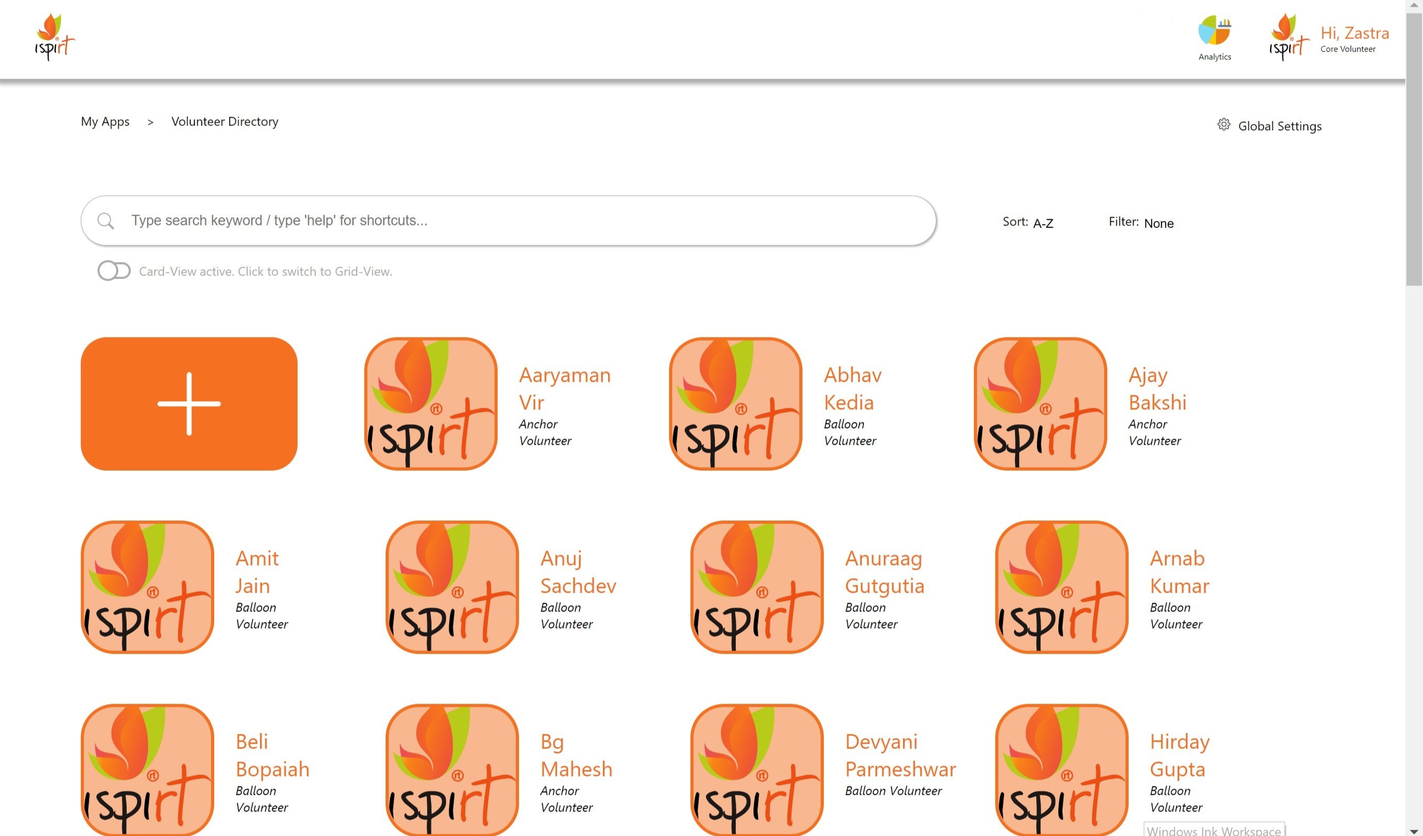
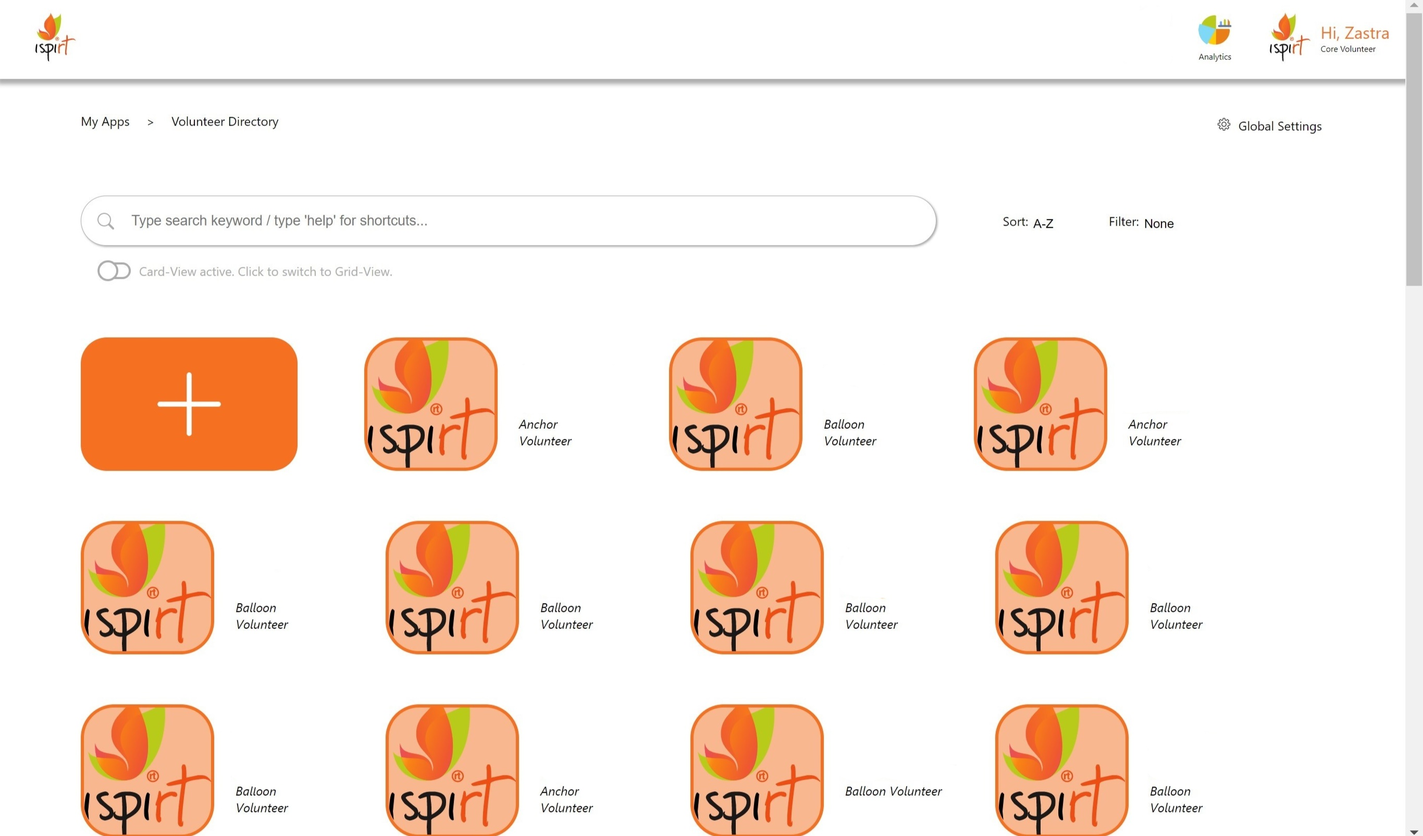
ispirt

diff --git a/pages/work/ispirt.js b/pages/work/ispirt.js
@@ -205,6 +205,8 @@ export default function Story() {
     const [volOpsIndex, setVolOpsIndex] = useState(0);
     const [vfcIndex, setVfcIndex] = useState(0);
 
+    const [nextImgExists, setNextImgExists] = useState(true);
+
     const handleChange = (event, newValue) => {
         setValue(newValue);
     };    
@@ -389,23 +391,23 @@ export default function Story() {
                     setGeneralIndex(0)
                 }
             }
-            if (nextjsVal === 1) {
+            else if (nextjsVal === 1) {
                 if (volOpsIndex === 0) {
-                    setVolOpsSrc("/assets/projects/ispirt/ispirt-zastra/volunteer_operations/vol-ops_onboarding_directory_2.jpg")
+                    setVolOpsSrc("/assets/projects/ispirt/ispirt-zastra/volunteer_operations/vol-ops_directory_2.jpg")
                     setVolOpsIndex(1)
                 }
                 else if (volOpsIndex === 1) {
-                    setVolOpsSrc("/assets/projects/ispirt/ispirt-zastra/volunteer_operations/vol-ops_onboarding_directory.jpg")
+                    setVolOpsSrc("/assets/projects/ispirt/ispirt-zastra/volunteer_operations/vol-ops_directory.jpg")
                     setVolOpsIndex(0)
                 }
             }
-            if (nextjsVal === 2) {
+            else if (nextjsVal === 2) {
                 if (vfcIndex === 0) {
-                    setVfcSrc("/assets/projects/ispirt/ispirt-zastra/vfc/vfc_onboarding_directory_2.jpg")
+                    setVfcSrc("/assets/projects/ispirt/ispirt-zastra/vfc/vfc_directory_2.jpg")
                     setVfcIndex(1)
                 }
                 else if (vfcIndex === 1) {
-                    setVfcSrc("/assets/projects/ispirt/ispirt-zastra/vfc/vfc_onboarding_directory.jpg")
+                    setVfcSrc("/assets/projects/ispirt/ispirt-zastra/vfc/vfc_directory.jpg")
                     setVfcIndex(0)
                 }
             }
@@ -570,23 +572,50 @@ export default function Story() {
             if (nextjsVal === 0) {
             }
             if (nextjsVal === 1) {
-                setVolOpsSrc("/assets/projects/ispirt/ispirt-zastra/volunteer_operations/vol-ops_settings_2.jpg")
+                if (volOpsIndex === 0) {
+                    setVolOpsSrc("/assets/projects/ispirt/ispirt-zastra/volunteer_operations/vol-ops_settings_2.jpg")
+                    setVolOpsIndex(1)
+                }
+                else if (volOpsIndex === 1) {
+                    setVolOpsSrc("/assets/projects/ispirt/ispirt-zastra/volunteer_operations/vol-ops_settings.jpg")
+                    setVolOpsIndex(0)
+                }
             }
             if (nextjsVal === 2) {
-                setVfcSrc("/assets/projects/ispirt/ispirt-zastra/vfc/vfc_settings_2.jpg")
+                if (vfcIndex === 0) {
+                    setVfcSrc("/assets/projects/ispirt/ispirt-zastra/vfc/vfc_settings_2.jpg")
+                    setVfcIndex(1)
+                }
+                else if (vfcIndex === 1) {
+                    setVfcSrc("/assets/projects/ispirt/ispirt-zastra/vfc/vfc_settings.jpg")
+                    setVfcIndex(0)
+                }
             }
         }
         else if (typeSrc === "> admin > new_volunteer_profile") {
             if (nextjsVal === 0) {
             }
             if (nextjsVal === 1) {
-                setVolOpsSrc("/assets/projects/ispirt/ispirt-zastra/volunteer_operations/vol-ops_new_volunteer_2.jpg")
+                if (volOpsIndex === 0) {
+                    setVolOpsSrc("/assets/projects/ispirt/ispirt-zastra/volunteer_operations/vol-ops_new_volunteer_2.jpg")
+                    setVolOpsIndex(1)
+                }
+                else if (volOpsIndex === 1) {
+                    setVolOpsSrc("/assets/projects/ispirt/ispirt-zastra/volunteer_operations/vol-ops_new_volunteer.jpg")
+                    setVolOpsIndex(0)
+                }
             }
             if (nextjsVal === 2) {
-                setVfcSrc("/assets/projects/ispirt/ispirt-zastra/vfc/vfc_new_volunteer_2.jpg")
+                if (vfcIndex === 0) {
+                    setVfcSrc("/assets/projects/ispirt/ispirt-zastra/vfc/vfc_new_volunteer_2.jpg")
+                    setVfcIndex(1)
+                }
+                else if (vfcIndex === 1) {
+                    setVfcSrc("/assets/projects/ispirt/ispirt-zastra/vfc/vfc_new_volunteer.jpg")
+                    setVfcIndex(0)
+                }
             }
         }
-        
     }
 
     return(
@@ -597,7 +626,6 @@ export default function Story() {
             </Grid>
 
             <Divider className={classes.divider}/>
-
 
             <Grid container justify="space-between" className={classes.container}>
                 <Grid item xs={5} container justify="flex-end">
@@ -883,59 +911,59 @@ export default function Story() {
                                 <Typography variant="body2" className={classes.text}>
                                    <b>Pages (click to see a screenshot of the page)</b><br/><br/>
                                 </Typography>
-                                <Typography variant="body2" className={classes.nextjs_nav} onClick={()=>{setGeneralSrc("/assets/projects/ispirt/ispirt-zastra/general/general_login.jpg"); setVolOpsSrc("/assets/projects/ispirt/ispirt-zastra/volunteer_operations/vol-ops_login.jpg"); setVfcSrc("/assets/projects/ispirt/ispirt-zastra/vfc/vfc_login.jpg"); setTypeSrc("> login"); setGeneralIndex(0); setVolOpsIndex(0); setVfcIndex(0); setTypeDesc("This is the landing screen for Zastra, the volunteer management tool. The OAuth 2.0 protocol has been used for authorization. Azure's Active Directory is the identity and access management service used with OAuth.")}}>
+                                <Typography variant="body2" className={classes.nextjs_nav} onClick={()=>{setGeneralSrc("/assets/projects/ispirt/ispirt-zastra/general/general_login.jpg"); setVolOpsSrc("/assets/projects/ispirt/ispirt-zastra/volunteer_operations/vol-ops_login.jpg"); setVfcSrc("/assets/projects/ispirt/ispirt-zastra/vfc/vfc_login.jpg"); setTypeSrc("> login"); setGeneralIndex(0); setVolOpsIndex(0); setVfcIndex(0); setTypeDesc("This is the landing screen for Zastra, the volunteer management tool. The OAuth 2.0 protocol has been used for authorization. Azure's Active Directory is the identity and access management service used with OAuth."); setNextImgExists(true)}}>
                                     > login
                                 </Typography>
                                 <br/>
-                                <Typography variant="body2" className={classes.nextjs_nav} onClick={()=>{setGeneralSrc("/assets/projects/ispirt/ispirt-zastra/general/general_onboarding.jpg"); setVolOpsSrc("/assets/projects/ispirt/ispirt-zastra/volunteer_operations/vol-ops_onboarding.jpg"); setVfcSrc("/assets/projects/ispirt/ispirt-zastra/vfc/vfc_onboarding.jpg"); setTypeSrc("> onboarding"); setGeneralIndex(0); setVolOpsIndex(0); setVfcIndex(0); setTypeDesc("This is the first onboarding screen. When a volunteer enters Zastra for the first time, this screen is displayed. This screen is also triggered when a returning volunteer clicks the 'help' button on the home screen.")}}>
+                                <Typography variant="body2" className={classes.nextjs_nav} onClick={()=>{setGeneralSrc("/assets/projects/ispirt/ispirt-zastra/general/general_onboarding.jpg"); setVolOpsSrc("/assets/projects/ispirt/ispirt-zastra/volunteer_operations/vol-ops_onboarding.jpg"); setVfcSrc("/assets/projects/ispirt/ispirt-zastra/vfc/vfc_onboarding.jpg"); setTypeSrc("> onboarding"); setGeneralIndex(0); setVolOpsIndex(0); setVfcIndex(0); setTypeDesc("This is the first onboarding screen. When a volunteer enters Zastra for the first time, this screen is displayed. This screen is also triggered when a returning volunteer clicks the 'help' button on the home screen."); setNextImgExists(false)}}>
                                     > onboarding
                                 </Typography>
-                                <Typography variant="body2" className={classes.nextjs_nav} onClick={()=>{setGeneralSrc("/assets/projects/ispirt/ispirt-zastra/general/general_onboarding_home.jpg"); setVolOpsSrc("/assets/projects/ispirt/ispirt-zastra/volunteer_operations/vol-ops_onboarding_home.jpg"); setVfcSrc("/assets/projects/ispirt/ispirt-zastra/vfc/vfc_onboarding_home.jpg"); setTypeSrc("> onboarding > home"); setGeneralIndex(0); setVolOpsIndex(0); setVfcIndex(0); setTypeDesc("This is the first onboarding screen. When a volunteer enters Zastra for the first time, this screen is displayed. This screen is also triggered when a returning volunteer clicks the 'help' button on the home screen.")}}>
+                                <Typography variant="body2" className={classes.nextjs_nav} onClick={()=>{setGeneralSrc("/assets/projects/ispirt/ispirt-zastra/general/general_onboarding_home.jpg"); setVolOpsSrc("/assets/projects/ispirt/ispirt-zastra/volunteer_operations/vol-ops_onboarding_home.jpg"); setVfcSrc("/assets/projects/ispirt/ispirt-zastra/vfc/vfc_onboarding_home.jpg"); setTypeSrc("> onboarding > home"); setGeneralIndex(0); setVolOpsIndex(0); setVfcIndex(0); setTypeDesc("This is the first onboarding screen. When a volunteer enters Zastra for the first time, this screen is displayed. This screen is also triggered when a returning volunteer clicks the 'help' button on the home screen."); setNextImgExists(false)}}>
                                     > onboarding > home
                                 </Typography>
-                                <Typography variant="body2" className={classes.nextjs_nav} onClick={()=>{setGeneralSrc("/assets/projects/ispirt/ispirt-zastra/general/general_onboarding_directory.jpg"); setVolOpsSrc("/assets/projects/ispirt/ispirt-zastra/volunteer_operations/vol-ops_onboarding_directory.jpg"); setVfcSrc("/assets/projects/ispirt/ispirt-zastra/vfc/vfc_onboarding_directory.jpg"); setTypeSrc("> onboarding > volunteer_directory"); setGeneralIndex(0); setVolOpsIndex(0); setVfcIndex(0); setTypeDesc("This is the second part of the onboarding deck. It tours volunteers around the volunteer directory (an internal yellow-book, if you' like).")}}>
+                                <Typography variant="body2" className={classes.nextjs_nav} onClick={()=>{setGeneralSrc("/assets/projects/ispirt/ispirt-zastra/general/general_onboarding_directory.jpg"); setVolOpsSrc("/assets/projects/ispirt/ispirt-zastra/volunteer_operations/vol-ops_onboarding_directory.jpg"); setVfcSrc("/assets/projects/ispirt/ispirt-zastra/vfc/vfc_onboarding_directory.jpg"); setTypeSrc("> onboarding > volunteer_directory"); setGeneralIndex(0); setVolOpsIndex(0); setVfcIndex(0); setTypeDesc("This is the second part of the onboarding deck. It tours volunteers around the volunteer directory (an internal yellow-book, if you' like)."); setNextImgExists(true)}}>
                                     > onboarding > volunteer_directory
                                 </Typography>
-                                <Typography variant="body2" className={classes.nextjs_nav} onClick={()=>{setGeneralSrc("/assets/projects/ispirt/ispirt-zastra/general/general_onboarding_profile.jpg"); setVolOpsSrc("/assets/projects/ispirt/ispirt-zastra/volunteer_operations/vol-ops_onboarding_profile.jpg"); setVfcSrc("/assets/projects/ispirt/ispirt-zastra/vfc/vfc_onboarding_profile.jpg"); setTypeSrc("> onboarding > volunteer_profile"); setGeneralIndex(0); setVolOpsIndex(0); setVfcIndex(0); setTypeDesc("This is the third part of the onboarding deck. It tours volunteers around an example volunteer's profile.")}}>
+                                <Typography variant="body2" className={classes.nextjs_nav} onClick={()=>{setGeneralSrc("/assets/projects/ispirt/ispirt-zastra/general/general_onboarding_profile.jpg"); setVolOpsSrc("/assets/projects/ispirt/ispirt-zastra/volunteer_operations/vol-ops_onboarding_profile.jpg"); setVfcSrc("/assets/projects/ispirt/ispirt-zastra/vfc/vfc_onboarding_profile.jpg"); setTypeSrc("> onboarding > volunteer_profile"); setGeneralIndex(0); setVolOpsIndex(0); setVfcIndex(0); setTypeDesc("This is the third part of the onboarding deck. It tours volunteers around an example volunteer's profile."); setNextImgExists(true)}}>
                                     > onboarding > volunteer_profile
                                 </Typography>
-                                <Typography variant="body2" className={classes.nextjs_nav} onClick={()=>{setGeneralSrc("/assets/projects/ispirt/ispirt-zastra/general/general_onboarding_personal.jpg"); setVolOpsSrc("/assets/projects/ispirt/ispirt-zastra/volunteer_operations/vol-ops_onboarding_personal.jpg"); setVfcSrc("/assets/projects/ispirt/ispirt-zastra/vfc/vfc_onboarding_personal.jpg"); setTypeSrc("> onboarding > personal_profile"); setGeneralIndex(0); setVolOpsIndex(0); setVfcIndex(0); setTypeDesc("This is the final part of the onboarding deck. It tours volunteers around their personal profile, guiding them to create their wiki. It then navigates to the volunteer's personal profile.")}}>
+                                <Typography variant="body2" className={classes.nextjs_nav} onClick={()=>{setGeneralSrc("/assets/projects/ispirt/ispirt-zastra/general/general_onboarding_personal.jpg"); setVolOpsSrc("/assets/projects/ispirt/ispirt-zastra/volunteer_operations/vol-ops_onboarding_personal.jpg"); setVfcSrc("/assets/projects/ispirt/ispirt-zastra/vfc/vfc_onboarding_personal.jpg"); setTypeSrc("> onboarding > personal_profile"); setGeneralIndex(0); setVolOpsIndex(0); setVfcIndex(0); setTypeDesc("This is the final part of the onboarding deck. It tours volunteers around their personal profile, guiding them to create their wiki. It then navigates to the volunteer's personal profile."); setNextImgExists(false)}}>
                                     > onboarding > personal_profile
                                 </Typography>
                                 <br/>
-                                <Typography variant="body2" className={classes.nextjs_nav} onClick={()=>{setGeneralSrc("/assets/projects/ispirt/ispirt-zastra/general/general_home.jpg"); setVolOpsSrc("/assets/projects/ispirt/ispirt-zastra/volunteer_operations/vol-ops_home.jpg"); setVfcSrc("/assets/projects/ispirt/ispirt-zastra/vfc/vfc_home.jpg"); setTypeSrc("> home"); setGeneralIndex(0); setVolOpsIndex(0); setVfcIndex(0); setTypeDesc("This is the home screen. It functions as a dashboard for all iSPIRT apps and resources, including Google Suite and the iSPIRT blog.")}}>
+                                <Typography variant="body2" className={classes.nextjs_nav} onClick={()=>{setGeneralSrc("/assets/projects/ispirt/ispirt-zastra/general/general_home.jpg"); setVolOpsSrc("/assets/projects/ispirt/ispirt-zastra/volunteer_operations/vol-ops_home.jpg"); setVfcSrc("/assets/projects/ispirt/ispirt-zastra/vfc/vfc_home.jpg"); setTypeSrc("> home"); setGeneralIndex(0); setVolOpsIndex(0); setVfcIndex(0); setTypeDesc("This is the home screen. It functions as a dashboard for all iSPIRT apps and resources, including Google Suite and the iSPIRT blog."); setNextImgExists(false)}}>
                                     > home
                                 </Typography>
-                                <Typography variant="body2" className={classes.nextjs_nav} onClick={()=>{setGeneralSrc("/assets/projects/ispirt/ispirt-zastra/general/general_directory.jpg"); setVolOpsSrc("/assets/projects/ispirt/ispirt-zastra/volunteer_operations/vol-ops_directory.jpg"); setVfcSrc("/assets/projects/ispirt/ispirt-zastra/vfc/vfc_directory.jpg"); setTypeSrc("> volunteer_directory"); setGeneralIndex(0); setVolOpsIndex(0); setVfcIndex(0); setTypeDesc("This is the volunteer directory. The default view is the icon view, but a toggle allows navigation between the icon and list views. A sort, filter, and search-bar make it easier to search, filter, and organize volunteers. The search functionality has been enhanced to not just search for volunteers via name, but locations, areas of expertise, mentors, etc. Admins can initialise and invite new volunteers to Zastra from this screen.")}}>
+                                <Typography variant="body2" className={classes.nextjs_nav} onClick={()=>{setGeneralSrc("/assets/projects/ispirt/ispirt-zastra/general/general_directory.jpg"); setVolOpsSrc("/assets/projects/ispirt/ispirt-zastra/volunteer_operations/vol-ops_directory.jpg"); setVfcSrc("/assets/projects/ispirt/ispirt-zastra/vfc/vfc_directory.jpg"); setTypeSrc("> volunteer_directory"); setGeneralIndex(0); setVolOpsIndex(0); setVfcIndex(0); setTypeDesc("This is the volunteer directory. The default view is the icon view, but a toggle allows navigation between the icon and list views. A sort, filter, and search-bar make it easier to search, filter, and organize volunteers. The search functionality has been enhanced to not just search for volunteers via name, but locations, areas of expertise, mentors, etc. Admins can initialise and invite new volunteers to Zastra from this screen. All volunteers' names have been erased for purposes of confidentiality."); setNextImgExists(true)}}>
                                     > volunteer_directory
                                 </Typography>
-                                <Typography variant="body2" className={classes.nextjs_nav} onClick={()=>{setGeneralSrc("/assets/projects/ispirt/ispirt-zastra/general/general_profile.jpg"); setVolOpsSrc("/assets/projects/ispirt/ispirt-zastra/volunteer_operations/vol-ops_volunteer_profile.jpg"); setVfcSrc("/assets/projects/ispirt/ispirt-zastra/vfc/vfc_volunteer_profile.jpg"); setTypeSrc("> volunteer_profile"); setGeneralIndex(0); setVolOpsIndex(0); setVfcIndex(0); setTypeDesc("This is the volunteer profile. Regular volunteers can see details about another volunteer's mentors, mentees, areas of expertise, etc. Admins and mentors can make edits to the volunteer's private data, including volunteer type, areas of expertise, and code of ethics level. Admins can also create private admin-level tags for volunteers, view a volunteer's historical journey with iSPIRT, and log comments.")}}>
+                                <Typography variant="body2" className={classes.nextjs_nav} onClick={()=>{setGeneralSrc("/assets/projects/ispirt/ispirt-zastra/general/general_profile.jpg"); setVolOpsSrc("/assets/projects/ispirt/ispirt-zastra/volunteer_operations/vol-ops_volunteer_profile.jpg"); setVfcSrc("/assets/projects/ispirt/ispirt-zastra/vfc/vfc_volunteer_profile.jpg"); setTypeSrc("> volunteer_profile"); setGeneralIndex(0); setVolOpsIndex(0); setVfcIndex(0); setTypeDesc("This is the volunteer profile. Regular volunteers can see details about another volunteer's mentors, mentees, areas of expertise, etc. Admins and mentors can make edits to the volunteer's private data, including volunteer type, areas of expertise, and code of ethics level. Admins can also create private admin-level tags for volunteers, view a volunteer's historical journey with iSPIRT, and log comments."); setNextImgExists(true)}}>
                                     > volunteer_profile
                                 </Typography>
                                 <br/>
-                                <Typography variant="body2" className={classes.nextjs_nav} onClick={()=>{setGeneralSrc("/assets/projects/ispirt/ispirt-zastra/general/general_personal.jpg"); setVolOpsSrc("/assets/projects/ispirt/ispirt-zastra/volunteer_operations/vol-ops_personal.jpg"); setVfcSrc("/assets/projects/ispirt/ispirt-zastra/vfc/vfc_personal.jpg"); setTypeSrc("> personal_profile"); setGeneralIndex(0); setVolOpsIndex(0); setVfcIndex(0); setTypeDesc("This is a volunteer personal profile, comparable to a volunteer's private wiki. Here, volunteers can add or remove mentors, mentees, rooms, and tags. Volunteers can also edit their bio.")}}>
+                                <Typography variant="body2" className={classes.nextjs_nav} onClick={()=>{setGeneralSrc("/assets/projects/ispirt/ispirt-zastra/general/general_personal.jpg"); setVolOpsSrc("/assets/projects/ispirt/ispirt-zastra/volunteer_operations/vol-ops_personal.jpg"); setVfcSrc("/assets/projects/ispirt/ispirt-zastra/vfc/vfc_personal.jpg"); setTypeSrc("> personal_profile"); setGeneralIndex(0); setVolOpsIndex(0); setVfcIndex(0); setTypeDesc("This is a volunteer personal profile, comparable to a volunteer's private wiki. Here, volunteers can add or remove mentors, mentees, rooms, and tags. Volunteers can also edit their bio."); setNextImgExists(true)}}>
                                     > personal_profile
                                 </Typography>
-                                <Typography variant="body2" className={classes.nextjs_nav} onClick={()=>{setGeneralSrc("/assets/projects/ispirt/ispirt-zastra/general/general_handbook.jpg"); setVolOpsSrc("/assets/projects/ispirt/ispirt-zastra/volunteer_operations/vol-ops_handbook.jpg"); setVfcSrc("/assets/projects/ispirt/ispirt-zastra/vfc/vfc_handbook.jpg"); setTypeSrc("> volunteer_handbook"); setGeneralIndex(0); setVolOpsIndex(0); setVfcIndex(0); setTypeDesc("This is the volunteer handbook, a fundamental component of iSPIRT's foundation. ")}}>
+                                <Typography variant="body2" className={classes.nextjs_nav} onClick={()=>{setGeneralSrc("/assets/projects/ispirt/ispirt-zastra/general/general_handbook.jpg"); setVolOpsSrc("/assets/projects/ispirt/ispirt-zastra/volunteer_operations/vol-ops_handbook.jpg"); setVfcSrc("/assets/projects/ispirt/ispirt-zastra/vfc/vfc_handbook.jpg"); setTypeSrc("> volunteer_handbook"); setGeneralIndex(0); setVolOpsIndex(0); setVfcIndex(0); setTypeDesc("This is the volunteer handbook, a fundamental component of iSPIRT's foundation. "); setNextImgExists(false)}}>
                                     > volunteer_handbook
                                 </Typography>
                                 <br/>
-                                <Typography variant="body2" className={classes.nextjs_nav} onClick={()=>{setGeneralSrc("/assets/projects/ispirt/ispirt-zastra/general/general_login.jpg"); setVolOpsSrc("/assets/projects/ispirt/ispirt-zastra/volunteer_operations/vol-ops_activity.jpg"); setVfcSrc("/assets/projects/ispirt/ispirt-zastra/vfc/vfc_activity.jpg"); setTypeSrc("> admin > analytics_activity"); setGeneralIndex(0); setVolOpsIndex(0); setVfcIndex(0); setTypeDesc("This is the admin-only analytics and activity screen. If regular volunteers attempt to access this via the url, they would be redirected to the login screen. Admins are able to view their activity on Zastra, with data including comments, approvals, edits to volunteer states, and edits to global settings.")}}>
+                                <Typography variant="body2" className={classes.nextjs_nav} onClick={()=>{setGeneralSrc("/assets/projects/ispirt/ispirt-zastra/general/general_login.jpg"); setVolOpsSrc("/assets/projects/ispirt/ispirt-zastra/volunteer_operations/vol-ops_activity.jpg"); setVfcSrc("/assets/projects/ispirt/ispirt-zastra/vfc/vfc_activity.jpg"); setTypeSrc("> admin > analytics_activity"); setGeneralIndex(0); setVolOpsIndex(0); setVfcIndex(0); setTypeDesc("This is the admin-only analytics and activity screen. If regular volunteers attempt to access this via the url, they would be redirected to the login screen. Admins are able to view their activity on Zastra, with data including comments, approvals, edits to volunteer states, and edits to global settings."); setNextImgExists(true)}}>
                                     > admin > analytics_activity
                                 </Typography>
-                                <Typography variant="body2" className={classes.nextjs_nav} onClick={()=>{setGeneralSrc("/assets/projects/ispirt/ispirt-zastra/general/general_login.jpg"); setVolOpsSrc("/assets/projects/ispirt/ispirt-zastra/volunteer_operations/vol-ops_approvals.jpg"); setVfcSrc("/assets/projects/ispirt/ispirt-zastra/vfc/vfc_approvals.jpg"); setTypeSrc("> admin > approvals"); setGeneralIndex(0); setVolOpsIndex(0); setVfcIndex(0); setTypeDesc("This is the vfc-only approvals screen. If regular volunteers or admins attempt to access this via the url, they would be redirected to the login screen. VFC Admins are able to view pending approvals (any change in a volunteer's state ie type of volunteer requires approval from all VFC members). Here, VFC Admins can view details about the volunteer, including comments added by other VFC Admins.")}}>
+                                <Typography variant="body2" className={classes.nextjs_nav} onClick={()=>{setGeneralSrc("/assets/projects/ispirt/ispirt-zastra/general/general_login.jpg"); setVolOpsSrc("/assets/projects/ispirt/ispirt-zastra/volunteer_operations/vol-ops_approvals.jpg"); setVfcSrc("/assets/projects/ispirt/ispirt-zastra/vfc/vfc_approvals.jpg"); setTypeSrc("> admin > approvals"); setGeneralIndex(0); setVolOpsIndex(0); setVfcIndex(0); setTypeDesc("This is the vfc-only approvals screen. If regular volunteers or admins attempt to access this via the url, they would be redirected to the login screen. VFC Admins are able to view pending approvals (any change in a volunteer's state ie type of volunteer requires approval from all VFC members). Here, VFC Admins can view details about the volunteer, including comments added by other VFC Admins."); setNextImgExists(false)}}>
                                     > admin > approvals
                                 </Typography>
-                                <Typography variant="body2" className={classes.nextjs_nav} onClick={()=>{setGeneralSrc("/assets/projects/ispirt/ispirt-zastra/general/general_login.jpg"); setVolOpsSrc("/assets/projects/ispirt/ispirt-zastra/volunteer_operations/vol-ops_settings.jpg"); setVfcSrc("/assets/projects/ispirt/ispirt-zastra/vfc/vfc_settings.jpg"); setTypeSrc("> admin > global_settings"); setGeneralIndex(0); setVolOpsIndex(0); setVfcIndex(0); setTypeDesc("This is the admin-only global settings screen. If regular volunteers attempt to access this via the url, they would be redirected to the login screen. Admins are able to edit global settings from this screen. The global settings control all the dropdowns, so any and all dropdown menu can be updated from this screen. The global settings also allow new labels for volunteer data to be created (e.g. city / age) with a default value for existing volunteers.")}}>
+                                <Typography variant="body2" className={classes.nextjs_nav} onClick={()=>{setGeneralSrc("/assets/projects/ispirt/ispirt-zastra/general/general_login.jpg"); setVolOpsSrc("/assets/projects/ispirt/ispirt-zastra/volunteer_operations/vol-ops_settings.jpg"); setVfcSrc("/assets/projects/ispirt/ispirt-zastra/vfc/vfc_settings.jpg"); setTypeSrc("> admin > global_settings"); setGeneralIndex(0); setVolOpsIndex(0); setVfcIndex(0); setTypeDesc("This is the admin-only global settings screen. If regular volunteers attempt to access this via the url, they would be redirected to the login screen. Admins are able to edit global settings from this screen. The global settings control all the dropdowns, so any and all dropdown menu can be updated from this screen. The global settings also allow new labels for volunteer data to be created (e.g. city / age) with a default value for existing volunteers."); setNextImgExists(true)}}>
                                     > admin > global_settings
                                 </Typography>
-                                <Typography variant="body2" className={classes.nextjs_nav} onClick={()=>{setGeneralSrc("/assets/projects/ispirt/ispirt-zastra/general/general_login.jpg"); setVolOpsSrc("/assets/projects/ispirt/ispirt-zastra/volunteer_operations/vol-ops_settings_email.jpg"); setVfcSrc("/assets/projects/ispirt/ispirt-zastra/vfc/vfc_settings_email.jpg"); setTypeSrc("> admin > global_settings_email_template"); setGeneralIndex(0); setVolOpsIndex(0); setVfcIndex(0); setTypeDesc("This is the admin-only email templates screen. If regular volunteers attempt to access this via the url, they would be redirected to the login screen. Admins are able to edit email templates from this screen. The email templates are used to automatically send emails to volunteers when they are initiated on the platform, their volunteer status is updated, or they leave iSPIRT. Send-Grid has been used to send these emails from a monitored iSPIRT Admin email account.")}}>
+                                <Typography variant="body2" className={classes.nextjs_nav} onClick={()=>{setGeneralSrc("/assets/projects/ispirt/ispirt-zastra/general/general_login.jpg"); setVolOpsSrc("/assets/projects/ispirt/ispirt-zastra/volunteer_operations/vol-ops_settings_email.jpg"); setVfcSrc("/assets/projects/ispirt/ispirt-zastra/vfc/vfc_settings_email.jpg"); setTypeSrc("> admin > global_settings_email_template"); setGeneralIndex(0); setVolOpsIndex(0); setVfcIndex(0); setTypeDesc("This is the admin-only email templates screen. If regular volunteers attempt to access this via the url, they would be redirected to the login screen. Admins are able to edit email templates from this screen. The email templates are used to automatically send emails to volunteers when they are initiated on the platform, their volunteer status is updated, or they leave iSPIRT. Send-Grid has been used to send these emails from a monitored iSPIRT Admin email account."); setNextImgExists(false)}}>
                                     > admin > global_settings_email_template
                                 </Typography>
-                                <Typography variant="body2" className={classes.nextjs_nav} onClick={()=>{setGeneralSrc("/assets/projects/ispirt/ispirt-zastra/general/general_login.jpg"); setVolOpsSrc("/assets/projects/ispirt/ispirt-zastra/volunteer_operations/vol-ops_new_volunteer.jpg"); setVfcSrc("/assets/projects/ispirt/ispirt-zastra/vfc/vfc_new_volunteer.jpg"); setTypeSrc("> admin > new_volunteer_profile"); setGeneralIndex(0); setVolOpsIndex(0); setVfcIndex(0); setTypeDesc("This is the admin-only new volunteer screen. If regular volunteers attempt to access this via the url, they would be redirected to the login screen. Admins are able to initialize new volunteers from this screen. Volunteer details have been divided into two sections: the required and optional details. If the required details are missing, the form is unable to submit. Smart checks have been implemented to ensure the mobile numbers and email addresses are valid. Additional check boxes control the requirement for VFC approvals and sending of emails and handbooks to new volunteers.")}}>
+                                <Typography variant="body2" className={classes.nextjs_nav} onClick={()=>{setGeneralSrc("/assets/projects/ispirt/ispirt-zastra/general/general_login.jpg"); setVolOpsSrc("/assets/projects/ispirt/ispirt-zastra/volunteer_operations/vol-ops_new_volunteer.jpg"); setVfcSrc("/assets/projects/ispirt/ispirt-zastra/vfc/vfc_new_volunteer.jpg"); setTypeSrc("> admin > new_volunteer_profile"); setGeneralIndex(0); setVolOpsIndex(0); setVfcIndex(0); setTypeDesc("This is the admin-only new volunteer screen. If regular volunteers attempt to access this via the url, they would be redirected to the login screen. Admins are able to initialize new volunteers from this screen. Volunteer details have been divided into two sections: the required and optional details. If the required details are missing, the form is unable to submit. Smart checks have been implemented to ensure the mobile numbers and email addresses are valid. Additional check boxes control the requirement for VFC approvals and sending of emails and handbooks to new volunteers."); setNextImgExists(true)}}>
                                     > admin > new_volunteer_profile
                                 </Typography>
-                                <Typography variant="body2" className={classes.nextjs_nav} onClick={()=>{setGeneralSrc("/assets/projects/ispirt/ispirt-zastra/general/general_logout.jpg"); setVolOpsSrc("/assets/projects/ispirt/ispirt-zastra/volunteer_operations/vol-ops_logout.jpg"); setVfcSrc("/assets/projects/ispirt/ispirt-zastra/vfc/vfc_logout.jpg"); setTypeSrc("> logout"); setGeneralIndex(0); setVolOpsIndex(0); setVfcIndex(0); setTypeDesc("This is how volunteers log-out from Zastra. The application deletes all pre-existing authentication JSON web tokens upon this event.")}}>
+                                <Typography variant="body2" className={classes.nextjs_nav} onClick={()=>{setGeneralSrc("/assets/projects/ispirt/ispirt-zastra/general/general_logout.jpg"); setVolOpsSrc("/assets/projects/ispirt/ispirt-zastra/volunteer_operations/vol-ops_logout.jpg"); setVfcSrc("/assets/projects/ispirt/ispirt-zastra/vfc/vfc_logout.jpg"); setTypeSrc("> logout"); setGeneralIndex(0); setVolOpsIndex(0); setVfcIndex(0); setTypeDesc("This is the screen that allows volunteers to log-out from Zastra. The application deletes all pre-existing authentication JSON web tokens upon this event."); setNextImgExists(false)}}>
                                     > logout
                                 </Typography>
                                 <br/>
@@ -986,7 +1014,7 @@ export default function Story() {
                                         <img src={generalSrc} className={classes.image_rounded_nextjs} style={{display: (nextjsVal===0) ? 'block' : 'none'}}/>
                                         <img src={volOpsSrc} className={classes.image_rounded_nextjs} style={{display: (nextjsVal===1) ? 'block' : 'none'}}/>
                                         <img src={vfcSrc} className={classes.image_rounded_nextjs} style={{display: (nextjsVal===2) ? 'block' : 'none'}}/>
-                                        <ArrowForwardIosIcon fontSize="small" style={{color: primary, cursor: 'pointer'}} onClick={()=>nextJsImages()}/>
+                                        <ArrowForwardIosIcon fontSize="small" style={{color: primary, cursor: 'pointer', display: nextImgExists ? 'block' : 'none'}} onClick={()=>nextJsImages()}/>
                                     </Grid>
                                 </Grid>
                             </Grid>
